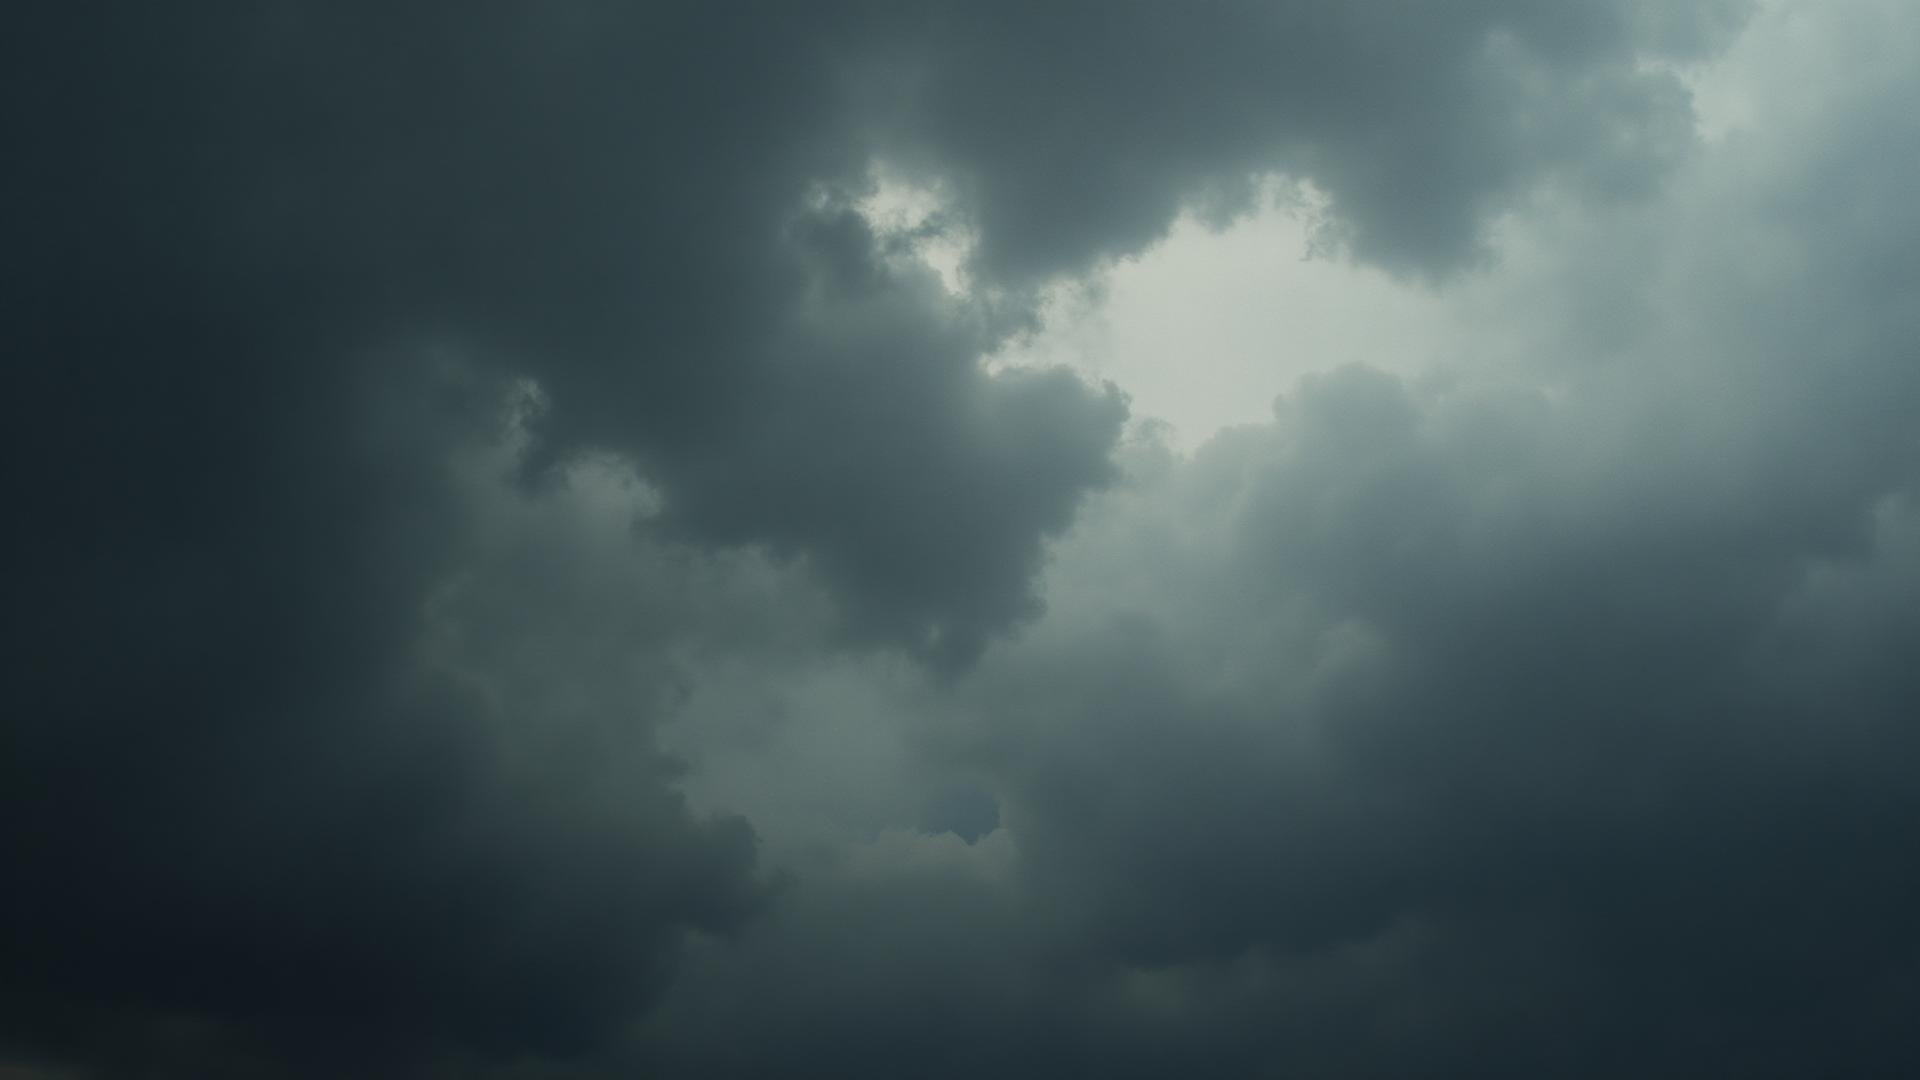
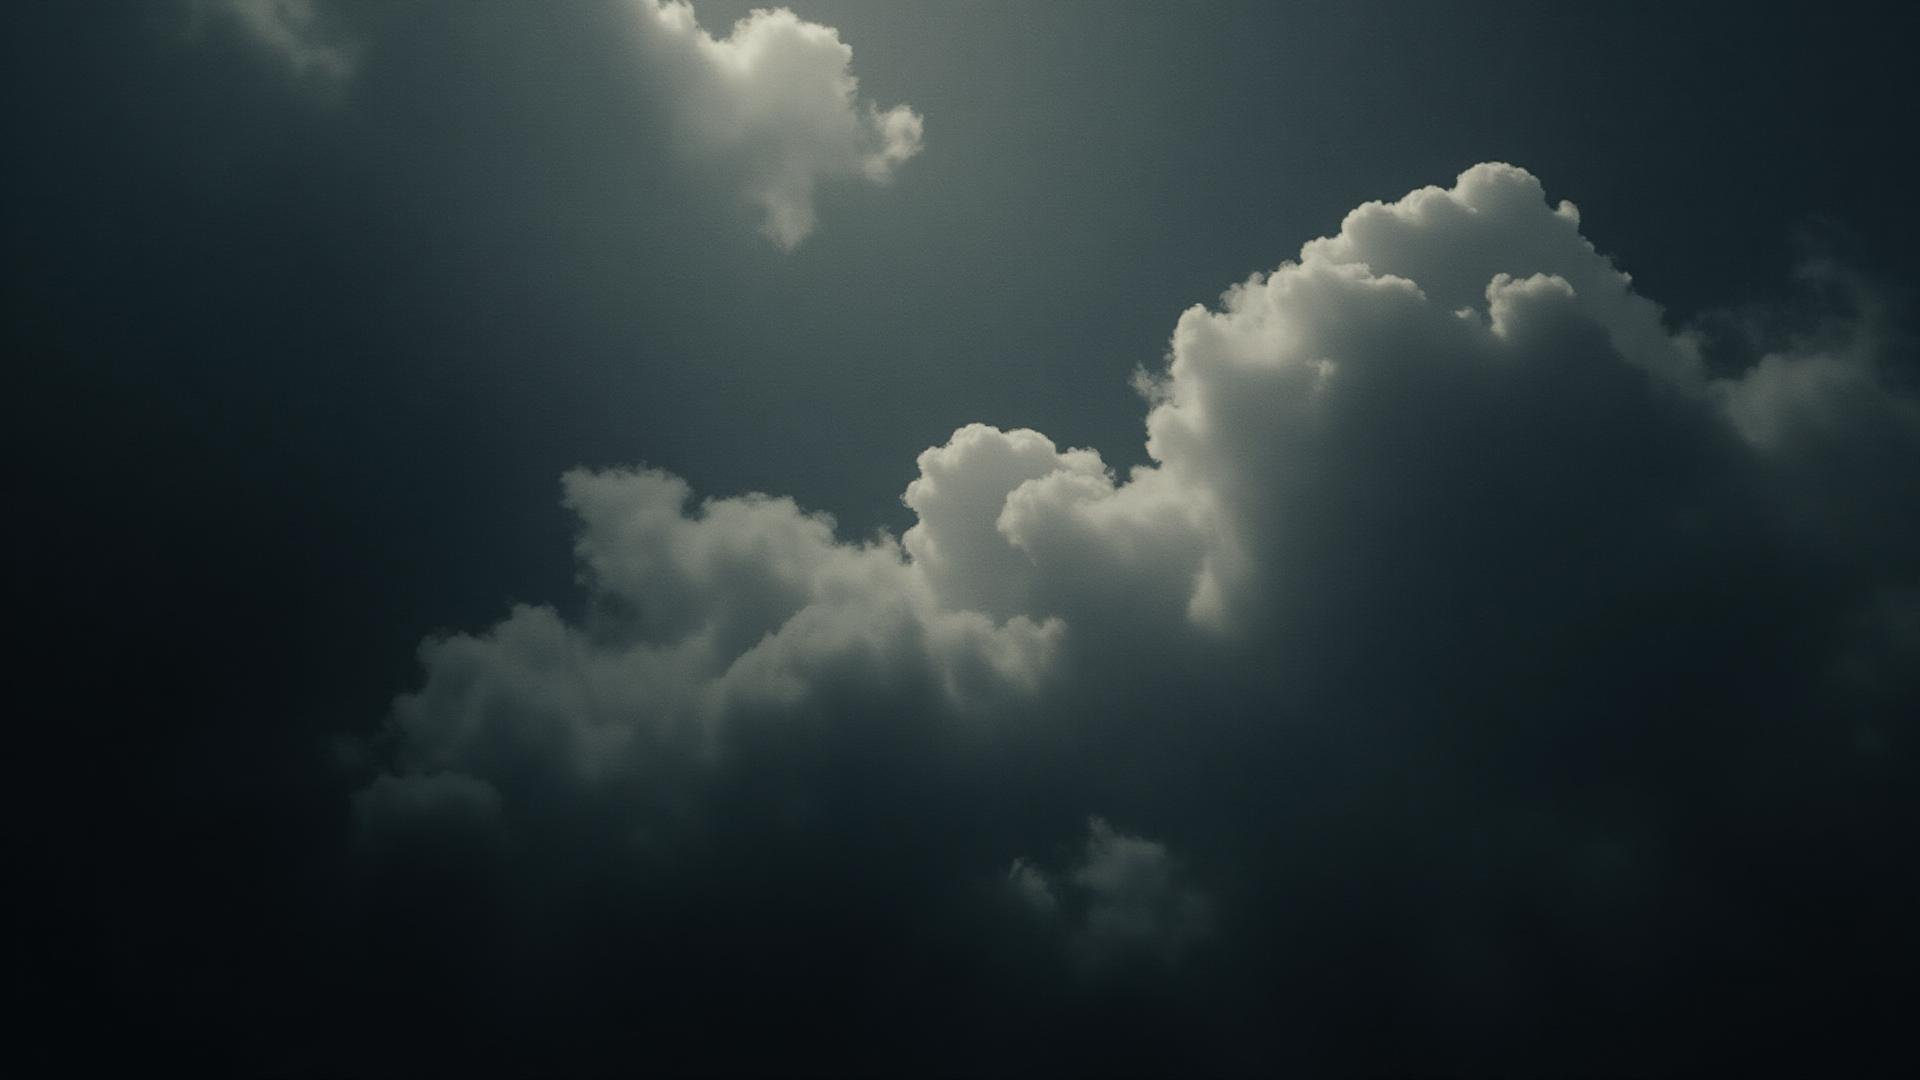
Fix: Ensure parallax clouds are visible

diff --git a/src/components/GlobalParallax.tsx b/src/components/GlobalParallax.tsx
@@ -103,8 +103,8 @@ const GlobalParallax = () => {
             backgroundSize: "160% 160%",
             backgroundPosition: "center",
             backgroundRepeat: "no-repeat",
-            mixBlendMode: "soft-light",
-            opacity: 0.3,
+            mixBlendMode: "screen",
+            opacity: 0.5,
           }}
         />
 
@@ -118,13 +118,13 @@ const GlobalParallax = () => {
             backgroundSize: "160% 160%",
             backgroundPosition: "center",
             backgroundRepeat: "no-repeat",
-            mixBlendMode: "overlay",
-            opacity: 0.25,
+            mixBlendMode: "screen",
+            opacity: 0.4,
           }}
         />
 
         {/* Dark gradient overlay for subtle cinematic atmosphere */}
-        <div className="absolute inset-0 bg-black/80 pointer-events-none" />
+        <div className="absolute inset-0 bg-black/60 pointer-events-none" />
       </div>
       
       {/* Layer 3: Gold Dust with Density Modulation */}
